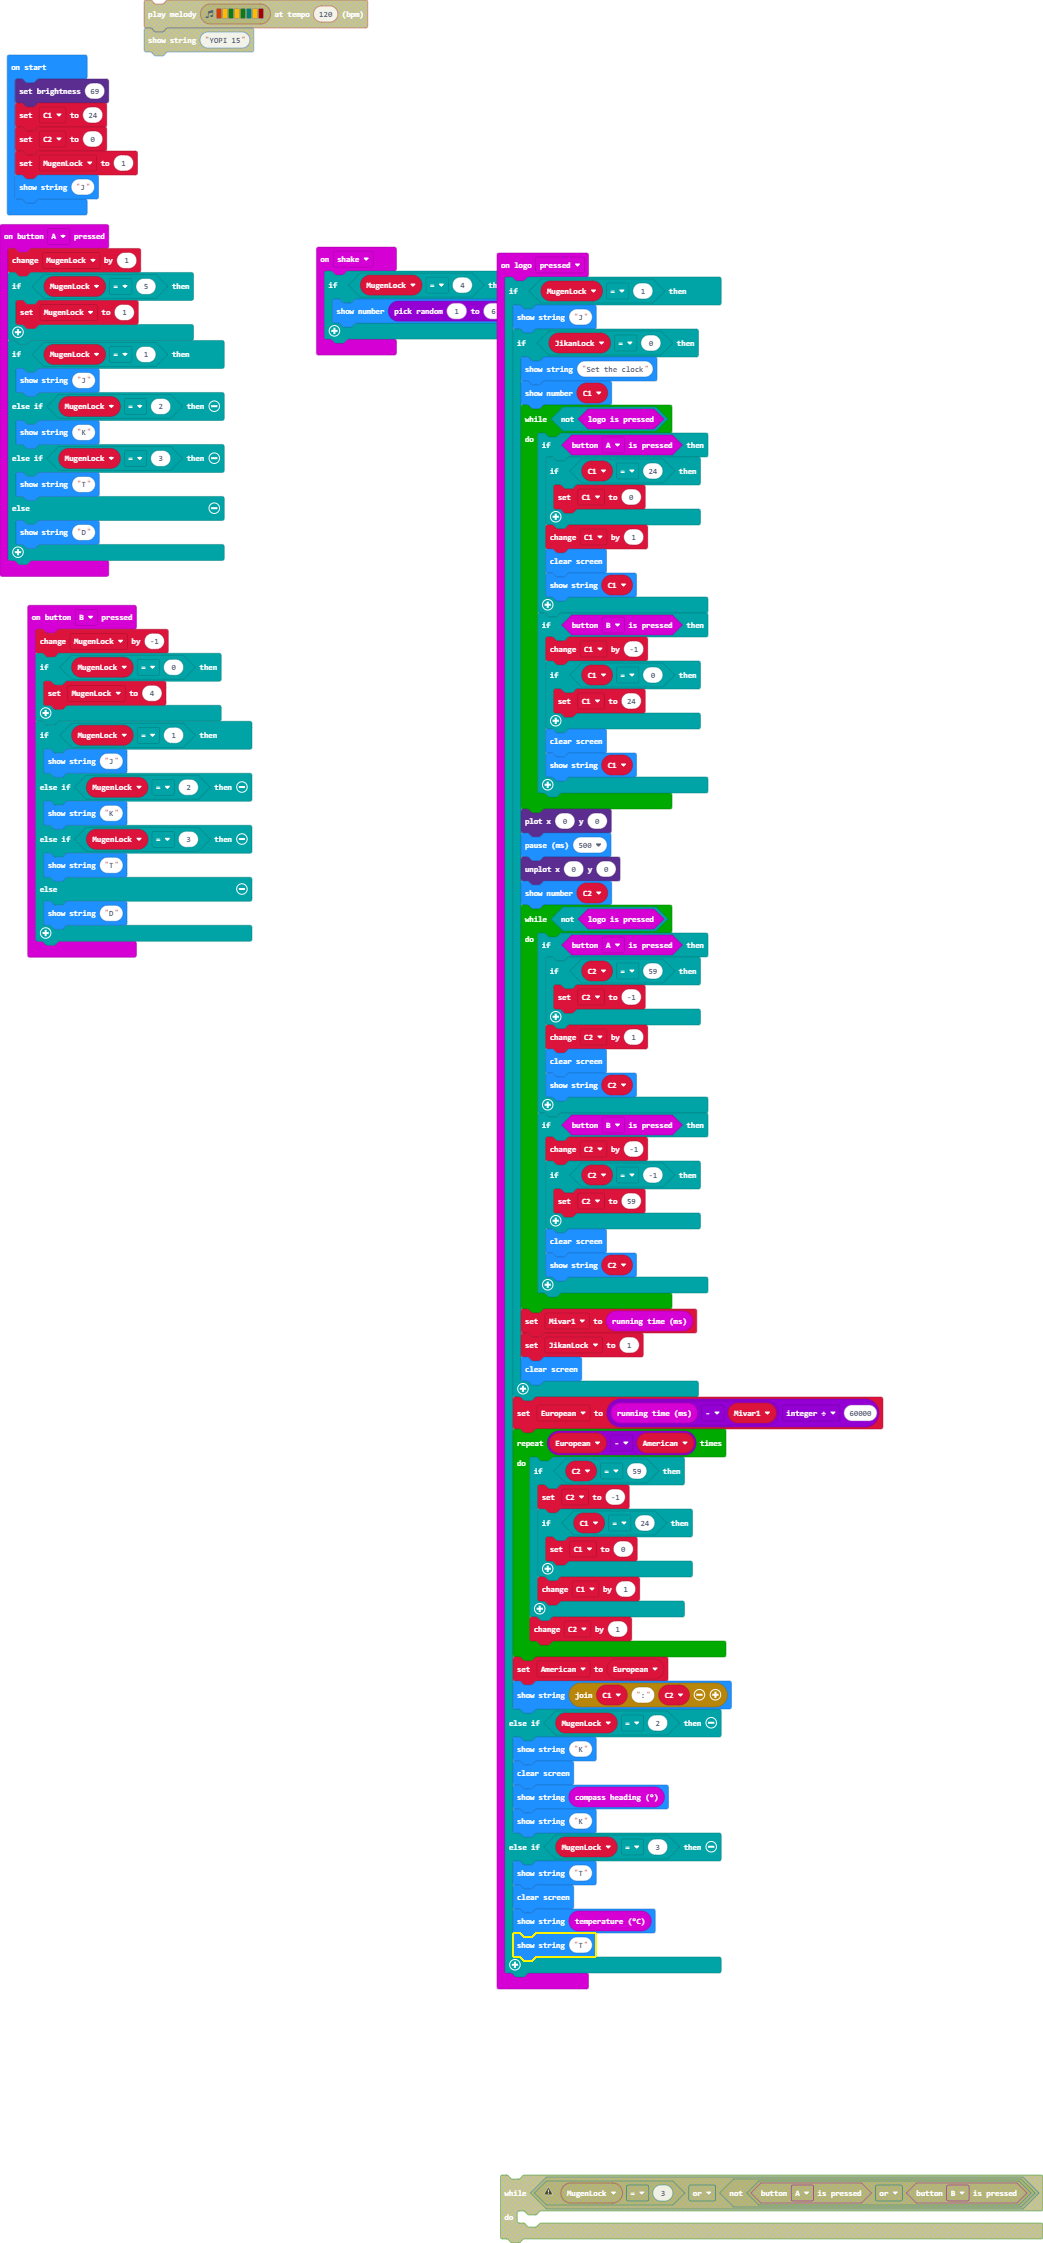
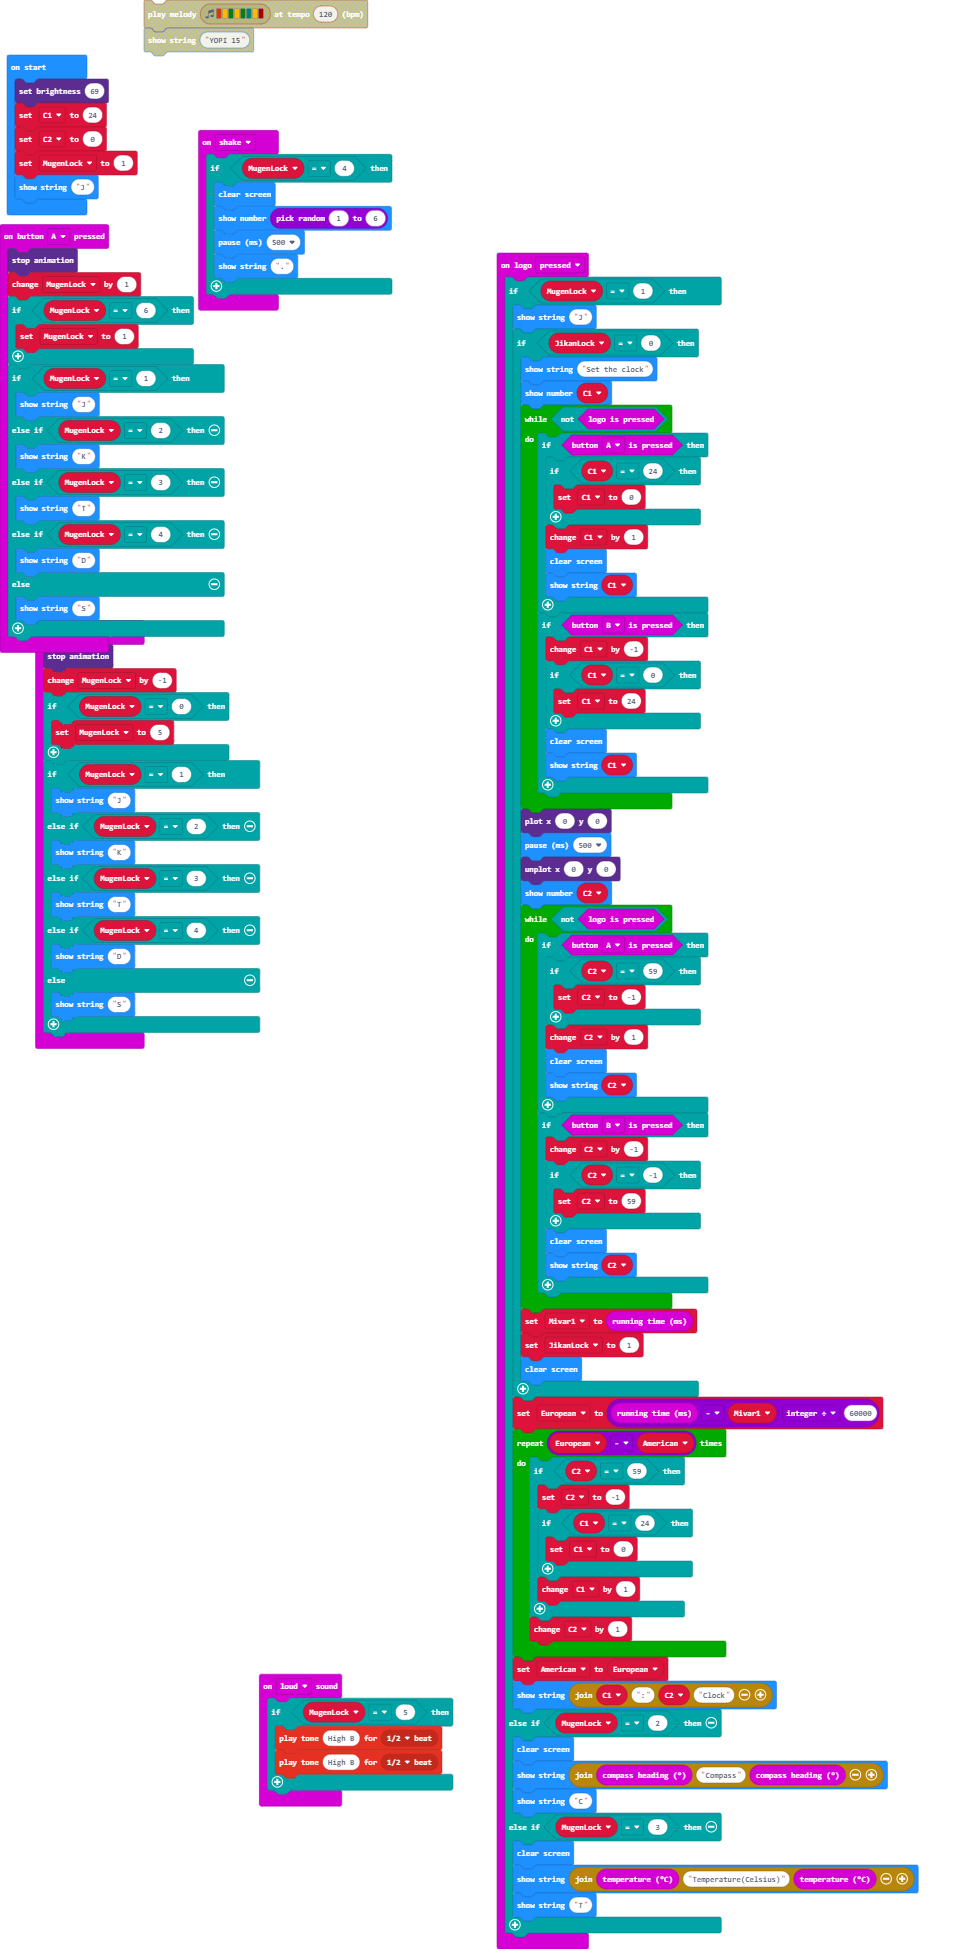
Update main.blocks, main.ts

Changed region(s): [[0.0, 0.0, 1.0, 1.0], [0.1237, 0.0, 0.4021, 0.0308]]

diff --git a/main.ts b/main.ts
@@ -1,6 +1,7 @@
 input.onButtonPressed(Button.A, function () {
+    led.stopAnimation()
     MugenLock += 1
-    if (MugenLock == 5) {
+    if (MugenLock == 6) {
         MugenLock = 1
     }
     if (MugenLock == 1) {
@@ -9,14 +10,23 @@ input.onButtonPressed(Button.A, function () {
         basic.showString("K")
     } else if (MugenLock == 3) {
         basic.showString("T")
-    } else {
+    } else if (MugenLock == 4) {
         basic.showString("D")
+    } else {
+        basic.showString("S")
+    }
+})
+input.onSound(DetectedSound.Loud, function () {
+    if (MugenLock == 5) {
+        music.playTone(988, music.beat(BeatFraction.Half))
+        music.playTone(988, music.beat(BeatFraction.Half))
     }
 })
 input.onButtonPressed(Button.B, function () {
+    led.stopAnimation()
     MugenLock += -1
     if (MugenLock == 0) {
-        MugenLock = 4
+        MugenLock = 5
     }
     if (MugenLock == 1) {
         basic.showString("J")
@@ -24,13 +34,18 @@ input.onButtonPressed(Button.B, function () {
         basic.showString("K")
     } else if (MugenLock == 3) {
         basic.showString("T")
-    } else {
+    } else if (MugenLock == 4) {
         basic.showString("D")
+    } else {
+        basic.showString("S")
     }
 })
 input.onGesture(Gesture.Shake, function () {
     if (MugenLock == 4) {
+        basic.clearScreen()
         basic.showNumber(randint(1, 6))
+        basic.pause(500)
+        basic.showString(".")
     }
 })
 input.onLogoEvent(TouchButtonEvent.Pressed, function () {
@@ -95,16 +110,14 @@ input.onLogoEvent(TouchButtonEvent.Pressed, function () {
             C2 += 1
         }
         American = European
-        basic.showString("" + C1 + ":" + C2)
+        basic.showString("" + C1 + ":" + C2 + "Clock")
     } else if (MugenLock == 2) {
-        basic.showString("K")
         basic.clearScreen()
-        basic.showString("" + (input.compassHeading()))
-        basic.showString("K")
+        basic.showString("" + input.compassHeading() + "Compass" + input.compassHeading())
+        basic.showString("C")
     } else if (MugenLock == 3) {
-        basic.showString("T")
         basic.clearScreen()
-        basic.showString("" + (input.temperature()))
+        basic.showString("" + input.temperature() + "Temperature(Celsius)" + input.temperature())
         basic.showString("T")
     }
 })
